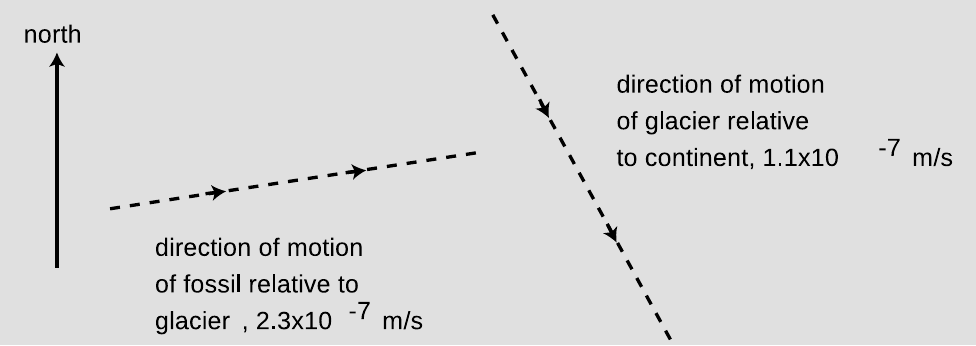
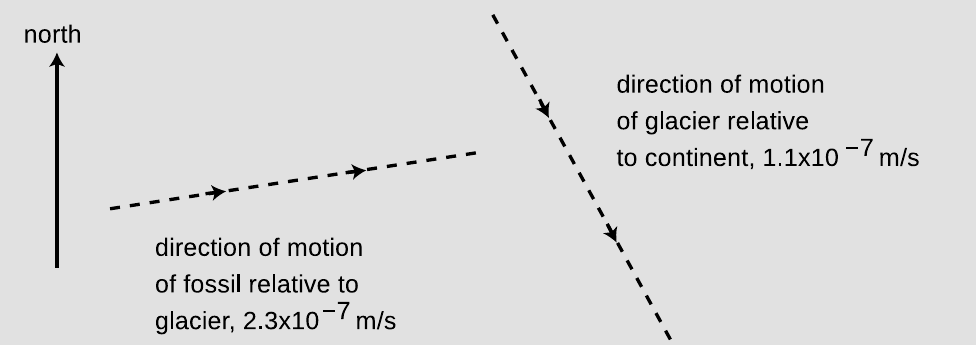
fix bad label for problem in LM 26

Changed region(s): [[0.2459, 0.8671, 0.4303, 0.9538], [0.8607, 0.4046, 0.9836, 0.4913]]

diff --git a/share/relativity/hw/energy-to-traverse-galaxy.tex b/share/relativity/hw/energy-to-traverse-galaxy.tex
@@ -1,4 +1,4 @@
-(a) Let $L$ be the diameter of galaxy. Suppose that a person in a spaceship of mass $m$ wants
+(a) Let $L$ be the diameter of our galaxy. Suppose that a person in a spaceship of mass $m$ wants
 to travel across the galaxy at constant speed, taking proper time $\tau$. Find the kinetic
 energy of the spaceship. (b) Your friend is impatient, and wants to make the voyage in
 an hour. For $L=10^5$ light years, estimate the energy in units of megatons of TNT
